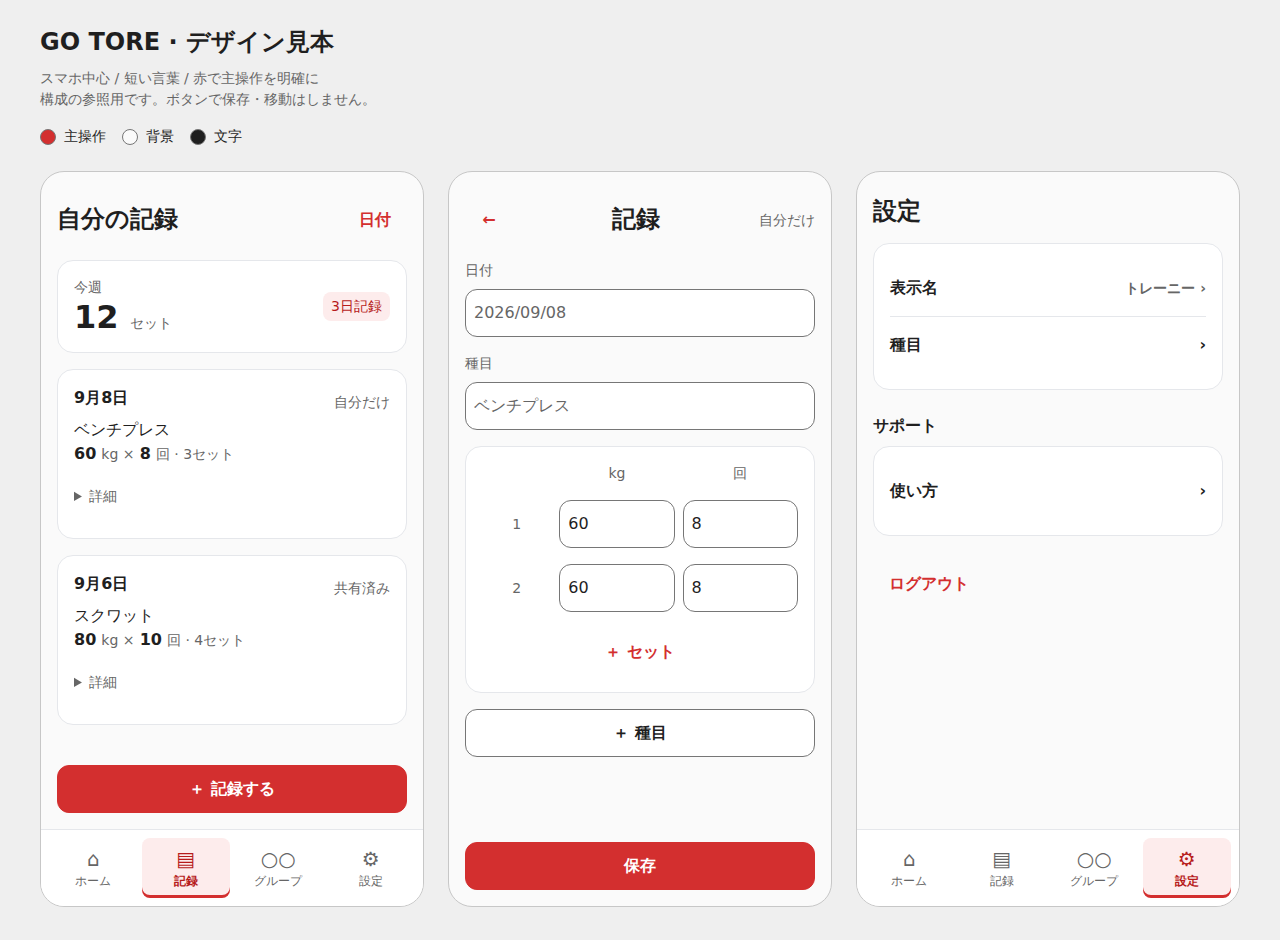
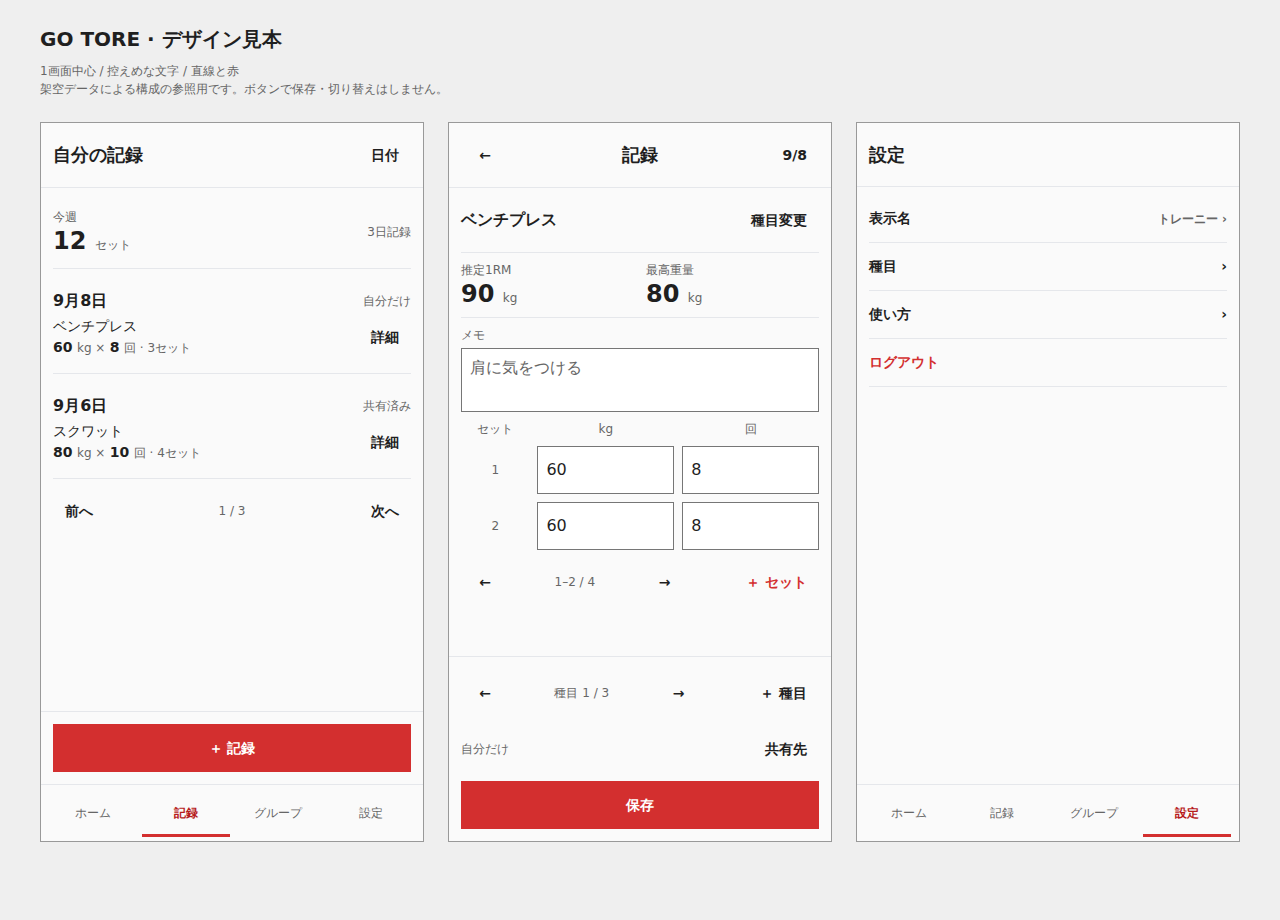
docs: 自己ベストと種目メモを備えた硬派な画面見本へ更新

diff --git a/docs/design-preview.html b/docs/design-preview.html
@@ -5,84 +5,83 @@
   <meta name="viewport" content="width=device-width, initial-scale=1">
   <title>GO TORE デザイン見本</title>
   <style>
-    :root { color-scheme: light; --accent:#d32f2f; --pressed:#b71c1c; --soft:#fdecec; --bg:#fafafa; --surface:#fff; --text:#1f1f1f; --muted:#666; --line:#e5e7eb; font-family:system-ui,-apple-system,"Noto Sans JP",sans-serif; color:var(--text); background:#efefef; }
+    :root { color-scheme:light; --accent:#d32f2f; --pressed:#b71c1c; --text:#1f1f1f; --muted:#666; --line:#e5e7eb; font-family:system-ui,-apple-system,"Noto Sans JP",sans-serif; color:var(--text); background:#efefef; }
     * { box-sizing:border-box; }
-    body { margin:0; padding:24px 16px; line-height:1.5; }
+    body { margin:0; padding:24px 16px; font-size:.875rem; line-height:1.5; }
     .heading { max-width:1200px; margin:0 auto 24px; }
-    h1 { font-size:1.5rem; margin:0 0 8px; }
-    h2 { font-size:1.5rem; line-height:1.3; margin:0; }
-    h3 { font-size:1rem; margin:0 0 8px; }
+    h1 { font-size:1.25rem; margin:0 0 8px; }
+    h2 { font-size:1.125rem; line-height:1.3; margin:0; }
+    h3 { font-size:1rem; margin:0; }
     p { margin:0; }
-    .muted { color:var(--muted); font-size:.875rem; }
+    .muted { color:var(--muted); font-size:.75rem; }
     main { max-width:1200px; margin:auto; display:grid; grid-template-columns:repeat(auto-fit,minmax(min(100%,320px),1fr)); gap:24px; }
-    .phone { min-width:0; min-height:720px; display:flex; flex-direction:column; background:var(--bg); border:1px solid #c7c7c7; border-radius:24px; overflow:hidden; }
-    .top { padding:24px 16px 16px; display:flex; align-items:center; justify-content:space-between; gap:8px; }
-    .body { padding:0 16px 24px; flex:1; }
-    .stack { display:grid; gap:16px; }
-    .card { background:var(--surface); border:1px solid var(--line); border-radius:16px; padding:16px; }
+    .phone { min-width:0; height:720px; display:flex; flex-direction:column; background:#fafafa; border:1px solid #999; overflow:auto; }
+    .top { padding:8px 12px; min-height:64px; display:flex; flex:none; align-items:center; justify-content:space-between; gap:8px; border-bottom:1px solid var(--line); }
+    .body { padding:8px 12px; flex:1 0 auto; }
+    .stack { display:grid; gap:8px; align-content:start; }
+    .rule { padding:12px 0; border-bottom:1px solid var(--line); }
     .row { display:flex; align-items:center; justify-content:space-between; gap:8px; flex-wrap:wrap; }
-    .count { font-size:2rem; font-weight:700; line-height:1.2; font-variant-numeric:tabular-nums; }
-    .unit { font-size:.875rem; font-weight:400; color:var(--muted); }
-    .badge { background:var(--soft); color:var(--pressed); padding:4px 8px; border-radius:8px; font-size:.875rem; }
-    button,input { font:inherit; color:inherit; min-width:0; }
-    button { min-width:48px; min-height:48px; border-radius:12px; border:1px solid #767676; padding:8px 16px; background:var(--surface); font-weight:600; cursor:pointer; }
-    button:focus-visible,summary:focus-visible { outline:3px solid var(--pressed); outline-offset:3px; }
-    button:active { background:var(--soft); }
+    .count { font-size:1.5rem; font-weight:700; line-height:1.25; font-variant-numeric:tabular-nums; overflow-wrap:anywhere; }
+    .unit { font-size:.75rem; font-weight:400; color:var(--muted); }
+    button,input,textarea { font:inherit; color:inherit; min-width:0; border-radius:0; }
+    button { min-width:48px; min-height:48px; border:1px solid #767676; padding:8px 12px; background:white; font-weight:600; cursor:pointer; }
+    button:focus-visible,input:focus-visible,textarea:focus-visible { outline:2px solid var(--pressed); outline-offset:2px; }
+    button:active { background:#fdecec; }
     .primary { background:var(--accent); border-color:var(--accent); color:white; width:100%; }
     .primary:active { background:var(--pressed); }
-    .plain { border:0; color:var(--accent); background:transparent; }
-    .action { padding:16px; }
-    .tabs { display:flex; gap:4px; padding:8px; border-top:1px solid var(--line); background:white; }
-    .tabs button { flex:1; border:0; padding:8px 2px; color:var(--muted); border-radius:8px; font-size:.75rem; font-weight:400; }
-    .tabs .active { color:var(--pressed); background:var(--soft); font-weight:700; box-shadow:inset 0 -3px var(--accent); }
-    .icon { display:block; font-size:1.25rem; line-height:1.3; }
-    details { margin-top:8px; }
-    summary { min-height:48px; padding:12px 0; font-size:.875rem; color:var(--muted); cursor:pointer; }
-    label { display:grid; gap:8px; font-size:.875rem; color:var(--muted); }
-    input { width:100%; min-height:48px; border:1px solid #767676; border-radius:12px; padding:8px; background:white; font-size:1rem; }
-    input:focus { outline:2px solid var(--accent); outline-offset:2px; }
-    .sets { display:grid; grid-template-columns:minmax(0,.6fr) repeat(2,minmax(0,1fr)); gap:8px; align-items:center; }
+    .plain { border:0; background:transparent; }
+    .red { color:var(--accent); }
+    .action { padding:12px; flex:none; border-top:1px solid var(--line); }
+    .tabs { display:flex; flex:none; gap:4px; padding:4px 8px; border-top:1px solid var(--line); }
+    .tabs button { flex:1; border:0; padding:8px 2px; color:var(--muted); background:transparent; font-size:.75rem; font-weight:400; }
+    .tabs .active { color:var(--pressed); font-weight:700; box-shadow:inset 0 -3px var(--accent); }
+    label { display:grid; gap:4px; font-size:.75rem; color:var(--muted); }
+    input { width:100%; min-height:48px; border:1px solid #767676; padding:8px; background:white; font-size:1rem; }
+    textarea { width:100%; height:64px; min-height:48px; border:1px solid #767676; padding:8px; background:white; font-size:1rem; line-height:1.4; resize:none; }
+    .bests { display:grid; grid-template-columns:repeat(2,minmax(0,1fr)); gap:12px; padding:8px 0; border-top:1px solid var(--line); border-bottom:1px solid var(--line); }
+    .sets { display:grid; grid-template-columns:minmax(0,.5fr) repeat(2,minmax(0,1fr)); gap:8px; align-items:center; }
     .sets .muted { text-align:center; }
-    .setting { width:100%; display:flex; align-items:center; justify-content:space-between; gap:8px; padding:16px 0; border:0; border-bottom:1px solid var(--line); border-radius:0; text-align:left; }
-    .setting:last-child { border-bottom:0; }
+    .pager { display:flex; align-items:center; justify-content:space-between; gap:4px; flex-wrap:wrap; }
+    .setting { width:100%; display:flex; align-items:center; justify-content:space-between; gap:8px; padding:12px 0; border:0; border-bottom:1px solid var(--line); background:transparent; text-align:left; }
     .setting span { overflow-wrap:anywhere; }
-    .section { margin-top:24px; }
-    .swatches { display:flex; gap:16px; margin-top:16px; flex-wrap:wrap; font-size:.875rem; }
-    .swatch { display:inline-block; width:16px; height:16px; border:1px solid #767676; border-radius:50%; vertical-align:middle; margin-right:8px; }
+    .exercise-name { flex:1; min-width:0; overflow-wrap:anywhere; }
   </style>
 </head>
 <body>
   <header class="heading">
     <h1>GO TORE · デザイン見本</h1>
-    <p class="muted">スマホ中心 / 短い言葉 / 赤で主操作を明確に</p>
-    <p class="muted">構成の参照用です。ボタンで保存・移動はしません。</p>
-    <div class="swatches"><span><i class="swatch" style="background:#d32f2f"></i>主操作</span><span><i class="swatch" style="background:#fafafa"></i>背景</span><span><i class="swatch" style="background:#1f1f1f"></i>文字</span></div>
+    <p class="muted">1画面中心 / 控えめな文字 / 直線と赤</p>
+    <p class="muted">架空データによる構成の参照用です。ボタンで保存・切り替えはしません。</p>
   </header>
   <main>
     <section class="phone" aria-label="一覧テンプレート">
-      <header class="top"><h2>自分の記録</h2><button class="plain" type="button" aria-label="日付を選ぶ">日付</button></header>
-      <div class="body stack" style="align-content:start">
-        <div class="card row"><div><p class="muted">今週</p><p class="count">12 <span class="unit">セット</span></p></div><span class="badge">3日記録</span></div>
-        <div class="card"><div class="row"><h3>9月8日</h3><span class="muted">自分だけ</span></div><p>ベンチプレス</p><p><strong>60</strong> <span class="unit">kg ×</span> <strong>8</strong> <span class="unit">回 · 3セット</span></p><details><summary>詳細</summary><p class="muted">60kg × 8回 / 60kg × 8回 / 60kg × 8回</p></details></div>
-        <div class="card"><div class="row"><h3>9月6日</h3><span class="muted">共有済み</span></div><p>スクワット</p><p><strong>80</strong> <span class="unit">kg ×</span> <strong>10</strong> <span class="unit">回 · 4セット</span></p><details><summary>詳細</summary><p class="muted">80kg × 10回 · 4セット</p></details></div>
+      <header class="top"><h2>自分の記録</h2><button class="plain" type="button">日付</button></header>
+      <div class="body stack">
+        <div class="rule row"><div><p class="muted">今週</p><p class="count">12 <span class="unit">セット</span></p></div><span class="muted">3日記録</span></div>
+        <div class="rule"><div class="row"><h3>9月8日</h3><span class="muted">自分だけ</span></div><div class="row"><div><p>ベンチプレス</p><p><strong>60</strong> <span class="unit">kg ×</span> <strong>8</strong> <span class="unit">回 · 3セット</span></p></div><button class="plain" type="button" aria-label="9月8日の詳細">詳細</button></div></div>
+        <div class="rule"><div class="row"><h3>9月6日</h3><span class="muted">共有済み</span></div><div class="row"><div><p>スクワット</p><p><strong>80</strong> <span class="unit">kg ×</span> <strong>10</strong> <span class="unit">回 · 4セット</span></p></div><button class="plain" type="button" aria-label="9月6日の詳細">詳細</button></div></div>
+        <div class="pager"><button class="plain" type="button">前へ</button><span class="muted">1 / 3</span><button class="plain" type="button">次へ</button></div>
       </div>
-      <div class="action"><button class="primary" type="button">＋ 記録する</button></div>
-      <nav class="tabs" aria-label="一覧のナビ見本"><button type="button"><span class="icon" aria-hidden="true">⌂</span>ホーム</button><button type="button" class="active" aria-current="page"><span class="icon" aria-hidden="true">▤</span>記録</button><button type="button"><span class="icon" aria-hidden="true">○○</span>グループ</button><button type="button"><span class="icon" aria-hidden="true">⚙</span>設定</button></nav>
+      <div class="action"><button class="primary" type="button">＋ 記録</button></div>
+      <nav class="tabs" aria-label="一覧のナビ見本"><button type="button">ホーム</button><button type="button" class="active" aria-current="page">記録</button><button type="button">グループ</button><button type="button">設定</button></nav>
     </section>
     <section class="phone" aria-label="入力テンプレート">
-      <header class="top"><button class="plain" type="button" aria-label="前の画面へ戻る">←</button><h2>記録</h2><span class="muted">自分だけ</span></header>
-      <div class="body stack" style="align-content:start">
-        <label>日付<input value="2026/09/08" readonly></label>
-        <label>種目<input value="ベンチプレス" readonly></label>
-        <div class="card stack"><div class="sets"><span></span><span class="muted">kg</span><span class="muted">回</span></div><div class="sets"><span class="muted">1</span><input aria-label="セット1の重量" value="60" readonly><input aria-label="セット1の回数" value="8" readonly></div><div class="sets"><span class="muted">2</span><input aria-label="セット2の重量" value="60" readonly><input aria-label="セット2の回数" value="8" readonly></div><button class="plain" type="button">＋ セット</button></div>
-        <button type="button">＋ 種目</button>
+      <header class="top"><button class="plain" type="button" aria-label="前の画面へ戻る">←</button><h2>記録</h2><button class="plain" type="button" aria-label="日付 2026年9月8日">9/8</button></header>
+      <div class="body stack">
+        <div class="row"><h3 class="exercise-name">ベンチプレス</h3><button class="plain" type="button">種目変更</button></div>
+        <div class="bests" aria-label="ベンチプレスの自己ベスト"><div><p class="muted">推定1RM</p><p class="count">90 <span class="unit">kg</span></p></div><div><p class="muted">最高重量</p><p class="count">80 <span class="unit">kg</span></p></div></div>
+        <label>メモ<textarea aria-label="ベンチプレスのメモ" rows="2">肩に気をつける</textarea></label>
+        <div class="sets"><span class="muted">セット</span><span class="muted">kg</span><span class="muted">回</span></div>
+        <div class="sets"><span class="muted">1</span><input aria-label="セット1の重量" value="60" readonly><input aria-label="セット1の回数" value="8" readonly></div>
+        <div class="sets"><span class="muted">2</span><input aria-label="セット2の重量" value="60" readonly><input aria-label="セット2の回数" value="8" readonly></div>
+        <div class="pager"><button class="plain" type="button" aria-label="前のセットへ">←</button><span class="muted">1–2 / 4</span><button class="plain" type="button" aria-label="次のセットへ">→</button><button class="plain red" type="button">＋ セット</button></div>
       </div>
-      <div class="action"><button class="primary" type="button">保存</button></div>
+      <div class="action stack"><div class="pager"><button class="plain" type="button" aria-label="前の種目へ">←</button><span class="muted">種目 1 / 3</span><button class="plain" type="button" aria-label="次の種目へ">→</button><button class="plain" type="button">＋ 種目</button></div><div class="row"><span class="muted">自分だけ</span><button class="plain" type="button">共有先</button></div><button class="primary" type="button">保存</button></div>
     </section>
     <section class="phone" aria-label="設定テンプレート">
       <header class="top"><h2>設定</h2></header>
-      <div class="body"><div class="card"><button class="setting" type="button"><span>表示名</span><span class="muted">トレーニー ›</span></button><button class="setting" type="button"><span>種目</span><span aria-hidden="true">›</span></button></div><h3 class="section">サポート</h3><div class="card"><button class="setting" type="button"><span>使い方</span><span aria-hidden="true">›</span></button></div><div class="section"><button class="plain" type="button">ログアウト</button></div></div>
-      <nav class="tabs" aria-label="設定のナビ見本"><button type="button"><span class="icon" aria-hidden="true">⌂</span>ホーム</button><button type="button"><span class="icon" aria-hidden="true">▤</span>記録</button><button type="button"><span class="icon" aria-hidden="true">○○</span>グループ</button><button type="button" class="active" aria-current="page"><span class="icon" aria-hidden="true">⚙</span>設定</button></nav>
+      <div class="body"><button class="setting" type="button"><span>表示名</span><span class="muted">トレーニー ›</span></button><button class="setting" type="button"><span>種目</span><span aria-hidden="true">›</span></button><button class="setting" type="button"><span>使い方</span><span aria-hidden="true">›</span></button><button class="setting red" type="button">ログアウト</button></div>
+      <nav class="tabs" aria-label="設定のナビ見本"><button type="button">ホーム</button><button type="button">記録</button><button type="button">グループ</button><button type="button" class="active" aria-current="page">設定</button></nav>
     </section>
   </main>
 </body>

diff --git a/docs/design-system.md b/docs/design-system.md
@@ -1,14 +1,15 @@
-# GO TORE デザインルール v1（#54）
+# GO TORE デザインルール v1.1（#54・#56）
 
-2026-09-08のユーザー合意は「最終的なスマホアプリ化を前提にする」「文字を増やしすぎない」「やる気につながる赤を使う」。以下を画面改善の初版基準とする。具体的な色値・寸法はこの方針を実装するための基準値で、代表画面の比較をもとに改訂する。
+2026-09-08のユーザー合意は「最終的なスマホアプリ化を前提にする」「文字を増やしすぎない」「やる気につながる赤を使う」。追加要望は「通常操作でスクロールさせない」「大きすぎる文字や角丸の箱を避け、硬派にする」。以下を画面改善の基準とし、v1の大きな文字・角丸カードの基準を更新する。具体的な色値・寸法はこの方針を実装するための基準値で、代表画面の比較をもとに改訂する。
 
 [画面見本](design-preview.html) / [画像](images/design-templates.png) / [短い文言のルール](ui-copy.md)
 
 ## 基本
 
 - スマートフォンの縦画面・片手操作を基準にする。主操作を見つけやすく、指で押しやすくする。
-- 白・薄いグレーを背景に、赤を主操作と選択状態に使う。大きな数値と明確な操作で、記録した達成感を伝える。
-- 一覧には見分けに必要な情報を置き、セット詳細や補助操作は必要なときに開く。文字を縮めて情報を詰め込まない。
+- 白・薄いグレーを背景に、赤を主操作と選択状態に使う。抑えた文字サイズ、数値の太さ、明確な操作で実績を伝える。
+- 通常操作は1画面で完結させる。種目・セット・一覧は表示量を区切って切り替え、詳細や補助操作は別の表示にする。
+- 直線・細い区切り線を基本とし、角丸カード・カプセル型の装飾・影を使わない。文字を極端に縮めて情報を詰め込まない。
 - 文言は「記録」「保存」「メモ」など短くする。説明は初回ガイドにまとめる。単位・共有範囲・取り消せない操作の確認は短く残す。
 - 色の用途、文字の役割、余白の段階、部品の状態を共通化する。ネイティブ版ではOSの戻る操作・文字拡大・日付入力等に合わせる。
 
@@ -20,7 +21,7 @@
 | 押下 | `#B71C1C` | 主操作を押している状態 |
 | 薄い赤 | `#FDECEC` | 選択中の背景。赤文字と組み合わせる |
 | 背景 | `#FAFAFA` | 画面全体 |
-| 面 | `#FFFFFF` | 入力・カード・メニュー |
+| 面 | `#FFFFFF` | 入力・メニュー |
 | 本文 | `#1F1F1F` | 見出し・数値・通常の文字 |
 | 補助文字 | `#666666` | 日付・単位・補足 |
 | 区切り | `#E5E7EB` | 装飾的な区切り線 |
@@ -34,14 +35,15 @@
 
 | 項目 | Webの基準 |
 | --- | --- |
-| 本文・入力・ボタン | 16px相当（1rem） |
-| 補助・日付・項目名 | 14px相当 |
+| 本文・ボタン | 14px相当（0.875rem） |
+| 入力文字 | 16px相当（1rem） |
+| 補助・日付・項目名 | 12 / 14px相当 |
 | ナビの短いラベル | 12px相当以上 |
-| 見出し | 20 / 24px相当、太字 |
-| 主な実績の数値 | 28 / 32px相当、太字。単位も表示 |
+| 見出し | 16 / 18px相当、太字 |
+| 主な実績の数値 | 20 / 24px相当、太字。単位も表示 |
 | 行間 | 本文1.5、見出し・数値1.2〜1.4 |
-| 余白 | 8 / 16 / 24px相当。画面左右16、節の間24が基本 |
-| 角丸 | 入力・ボタン12、カード16px相当 |
+| 余白 | 4 / 8 / 12 / 16px相当。画面左右12〜16、節の間8〜12が基本 |
+| 角丸・装飾 | 原則0。OS標準部品は尊重。大きな角丸・影・装飾カードなし |
 | タップ領域 | 幅・高さ48 CSS px以上。見えるアイコンは小さくてもよい |
 
 Webの文字はremを使い、ネイティブ版はOSの文字拡大に対応したスタイルへ割り当てる。iOSのpt、Androidのdp/sp、WebのCSS pxは同じ物理寸法として扱わない。iOSは44×44pt以上、Androidは48×48dp以上の操作領域を確保する。
@@ -55,8 +57,8 @@ OS標準の日本語サンセリフを基本にする。太字は見出し・主
 | 主ボタン | 赤地＋白文字。主操作は原則1つ。送信中は二重操作を防ぐ |
 | 補助ボタン | 白地＋枠、または短い文字。主操作より控えめにする |
 | 入力 | 短いラベルを欄の外に置き、単位を明示。数値入力に適したキーボード |
-| 記録の行・カード | 日付・種目・セット数など必要な要約を表示。詳細・編集等は整理して配置 |
-| ナビゲーション | 下部の主要タブにアイコン＋短いラベル。選択状態は色と形・太さで示す |
+| 記録の行 | 日付・種目・セット数など必要な要約を細い区切り線で整理。詳細・編集等は別の表示へ |
+| ナビゲーション | 下部に短いラベル。アイコンは識別を助ける場合だけ使う。選択状態は赤と下線・太さで示す |
 | 通知・エラー | 状態と次の操作を短く示す。成功通知を重複させず、失敗時は入力を保持 |
 | 読み込み | 初回・再取得・空・失敗を区別。保持した古い記録の再確認中は「更新中…」 |
 
@@ -67,19 +69,38 @@ OS標準の日本語サンセリフを基本にする。太字は見出し・主
 | 型 | 上からの配置 |
 | --- | --- |
 | 一覧 | 短い見出し → 日付・共有先等の絞り込み → 要約／一覧 → 主操作 → 下部ナビ |
-| 入力 | 戻る＋見出し → 日付・種目 → セット入力 → 保存 |
+| 入力 | 戻る＋見出し → 日付・入力中の種目 → 推定1RM・最高重量 → 種目メモ → セット入力 → 保存 |
 | 設定 | 見出し → 項目を用途ごとにまとめた行 → 詳細・変更画面 |
 
-一覧のカードを巨大にせず、入力では欄を縦に積みすぎない。最優先の操作をスクロールの奥へ埋めない。下部の固定操作は本文やキーボード、安全領域と重ねず、最終行まで読める余白を確保する。
+通常の記録は1種目を表示し、種目名・自己ベスト・短いメモ・セット入力・保存が1画面で見える構成にする。複数種目を縦に積まず、前／次や種目選択で切り替える。セットは画面に収まる行数に区切り、表示中の範囲と全件数を示す。一覧も日付選択・ページ切り替えを使う。ページ切り替えで下書きを失わない。
+
+通常の文字サイズ・キーボードなしで、390px幅・有効表示領域720px高を基準に縦スクロール不要を確認する。長いメモは専用編集表示へ、小さい表示領域ではセットの表示行数を減らす。文字拡大やキーボード表示時は必要な範囲のスクロールを許容し、内容を切り捨てたりフォーカスや保存を隠したりしない。下部の固定操作は本文・キーボード・安全領域と重ねない。
 
 画面見本は構成と見た目の参照用で、ボタンは動作しない。集約単位や共有ルールなどの業務仕様は既存docsと各Issueに従う。
 
+<a id="record-input-context"></a>
+
+## 記録入力の必須情報（#56）
+
+2026-09-08の追加要望により、入力中に次を確認できることを最低条件とする。
+
+- 入力中の種目名を明示し、その種目の自己ベストとして「推定1RM」「最高重量」を単位kg付きで並べる。推定値と実際に扱った重量を混同させない。
+- 両方とも本人の保存済み履歴が対象。それぞれの最高値を示し、同じセットから選ぶ必要はない。未保存の入力を過去の自己ベストに混ぜない。
+- 種目に残したメモ（例「肩に気をつける」）を表示する。ラベルは「メモ」とし、同じ欄で読んだり書き足したりできる。初期表示で折り畳まず、次回その種目を選んだときも参照できる形にする。
+- 種目を切り替えたら、その種目に対応する自己ベスト・メモを表示する。前の種目の値を混ぜず、未保存メモを無断で破棄しない。
+- メモは本人用として扱い、既存の[記録単位メモ](private-workout-memo.md)とは保存対象を区別する。種目メモをグループへ自動公開しない。
+- 履歴なし・読み込み中・取得失敗を区別する。未取得を0kgとして表示せず、失敗時もセットとメモの入力を保持する。
+
+[入力画面の拡大見本](images/record-context-mobile.png)。見本の数値とメモは架空の表示例で、実績の集計・計算・保存は実装していない。
+
+今回の合意は表示項目と配置。推定1RMの計算式・対象回数・自重種目の扱い・種目の同定は#17、種目メモの保存タイミング・文字数・編集競合・種目削除時の扱いは#22で実装前に定義する。種目をグループ固有にするかの判断は引き続き保留する。
+
 ## 適用・確認
 
-文書化は#54（imtkgtr）。画面への適用は#8、ホームの表示整理は#30（どちらもIXYZONE）。現行CSSは未移行であり、この文書だけではアプリの表示は変わらない。
+文書化は#54・#56（imtkgtr）。画面への適用は#8、ホームの表示整理は#30（どちらもIXYZONE）。現行CSSは未移行であり、この文書だけではアプリの表示は変わらない。
 
 1. 共通の色・文字・余白を変数と部品にし、まず一覧・入力の代表画面で比較する。
-2. 390pxを基準に、320〜430px幅・文字200%・長い日本語・キーボード表示で、欠けや横スクロール、操作の重なりがないか確認する。
+2. 通常390×720pxの有効領域で縦スクロール不要を確認する。320〜430px幅・文字200%・長い日本語・キーボード表示も確認し、必要時の縦スクロールを許容して欠け・横スクロール・操作の重なりを防ぐ。
 3. 読み込み・空・エラー・共有範囲・削除確認も比較画像へ含める。
 4. #8のユーザー確認後、各画面へ展開し、実装差分に応じてmake check・共有E2E・実機確認を行う。
 

diff --git a/progress.md b/progress.md
@@ -578,3 +578,19 @@
 - 検証結果: Playwrightで320・390・430px幅それぞれ文字100%／200%の計6条件に横スクロールがないことを確認。1280pxの比較画像を目視確認。主色と白文字4.98:1、補助文字と白5.74:1を計算し、新規リンクの参照先とgit diff --checkを確認した。既存docs/README.mdのPDF2点・画像1点は元の作業ディレクトリにある未追跡資料で、このworktreeにはないため既存リンク全件検査は失敗。今回の新規リンク切れはない。
 - 未解決事項: 参照HTMLは保存・画面遷移を行わない静的見本。アプリ変更がないためmake check／E2Eはローカルで未実施。アプリ適用時の読み込み等の状態・キーボード・実機確認は#8・#30で行う。
 - 次のアクション: PRとCIで確認し、#8・#30へルールと比較画像を共有する。
+
+## 2026-09-08 15:19 JST
+- 変更内容: ユーザー要望の「入力中の種目・推定1RMと最高重量・種目メモの閲覧と記入」を#56（着手前にimtkgtrへ割り当て）でデザインルールと静的見本に反映した。
+- 目的: 記録中に本人の過去の実績と種目の注意点を参照できるようにする。
+- 影響範囲・関連ファイル: docs/design-system.md、docs/design-preview.html、docs/private-workout-memo.md、docs/exercise-options.md、画面見本画像、task.md。
+- テスト方針: 文書・静的見本だけのため先行アプリテストは追加しない。画面幅・文字拡大・メモ入力・参照リンク・git diff --checkで確認する。
+- 未解決事項: 現行アプリは未変更。推定1RMの式・対象回数・自重種目と種目同定は#17、種目メモの保存・競合・削除仕様は#22、実画面の適用は#8。種目のグループ固有化は保留を維持する。
+- 次のアクション: 見本を検証し、画像付きPRと関連Issueに反映する。
+
+## 2026-09-08 15:24 JST
+- 変更内容: 作業中の追加要望を受け、#56の範囲を通常操作のスクロール削減と硬派なデザインへ拡張。v1.1として見出し16〜18・数値20〜24px相当、角丸0・影なし・直線と区切り線に更新した。記録は1種目・セットを区切って切り替え、一覧もページ切り替えとする見本へ変更した。
+- 目的: 推定1RM・最高重量・種目メモを見ながら、通常の記録操作を1画面で行えるようにする。
+- 影響範囲・関連ファイル: docs/design-system.md、docs/design-preview.html、docs/images/design-templates.png、docs/images/record-context-mobile.png、docs/private-workout-memo.md、docs/exercise-options.md、task.md。
+- 検証結果: ローカルChromiumで320・375・390・430px幅×文字100%／200%の8条件に横スクロールなし。通常文字では全4幅・720px高で入力画面の縦スクロールなし。メモ欄の複数行入力、390px画面画像の目視、新規リンクを確認。最初のChromium起動はsandbox制約で失敗し、許可された実行環境で再検証成功。静的見本のみのためmake check／E2Eはローカル未実施。
+- 未解決事項: 文字200%時は必要な縦スクロールを許容。小さい画面・キーボード・実機の切り替え操作はアプリ実装時に検証する。静的ボタンは保存・種目／セット／一覧切り替えを行わない。実機のスクロール不要を確認済みとはしない。
+- 次のアクション: #8へデザイン、#17へBEST、#22へ種目メモの要件を引き継ぎ、画像付きPRのCIを確認してマージする。

diff --git a/task.md b/task.md
@@ -2,6 +2,12 @@
 
 ## タスク一覧
 
+### タスク名: 記録画面の情報と硬派な画面デザイン（#56）
+- 目的: 入力中の種目の実績と注意点を見ながら記録できるようにする。
+- 主な実装内容: 推定1RM・最高重量・種目メモを表示し、通常操作のスクロールを避ける構成と、控えめな文字・直線主体の共通ルールへ更新。
+- 完了条件: スマホ幅で見本を確認し、#8・#17・#22へ画面要件と実装上の残作業を引き継ぐ。
+- 備考: 文書化はimtkgtr。画面適用は#8（IXYZONE）、BEST機能は#17、種目メモは#22。
+
 ### タスク名: スマホ向けデザインルールと画面テンプレート（#54）
 - 目的: 将来のスマホアプリと現在のWebで、一貫した見やすさと操作感を作る。
 - 主な実装内容: モバイル操作・短い文言・赤の使い方・文字と余白・共通部品・画面見本を文書化。

diff --git a/docs/private-workout-memo.md b/docs/private-workout-memo.md
@@ -13,3 +13,7 @@
 - 通信失敗・競合では入力を保持する。「保存済みを読み直す」は入力の破棄を明示し、確認後に最新の内容を読み込める。閉じると未保存の入力が消えることを案内する。ブラウザのlocalStorageには保存しない。
 - migrationで専用テーブルとRLS・外部キーを追加する。既存データの変更は不要。APIより先にmigrationを適用する。
 - テストで所有権・共有への非表示・1000文字境界・HTML文字列・競合・再送・空欄化・元記録削除と共有解除を確認する。
+
+## 種目メモとの区別
+
+記録入力中に参照・記入する種目メモは、[記録画面の追加要件](design-system.md#record-input-context)（#56・#22）で扱う。この文書の保存済みワークアウト単位メモとは別の対象で、種目メモのAPI・DBはまだ実装していない。

diff --git a/docs/exercise-options.md b/docs/exercise-options.md
@@ -45,3 +45,7 @@ gotore_exercise_catalogsで初期化済みの本人を保持し、gotore_exercis
 390px幅のブラウザ検証用データによる画面。実ユーザーの情報は含まない。
 
 ![種目リストの追加・削除と記録時の選択](images/exercise-catalog-mobile.png)
+
+## 記録中の参考情報
+
+[記録画面の追加要件](design-system.md#record-input-context)（#56）として、選択中の種目の推定1RM・最高重量・種目メモを表示する方針を採用した。BESTの算出・種目同定は#17、種目メモの保存仕様は#22で定義し、本人用候補の現在のAPI・DB仕様は今回変更しない。
